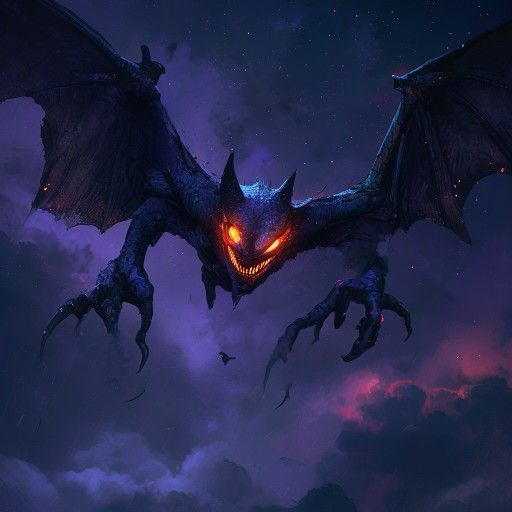
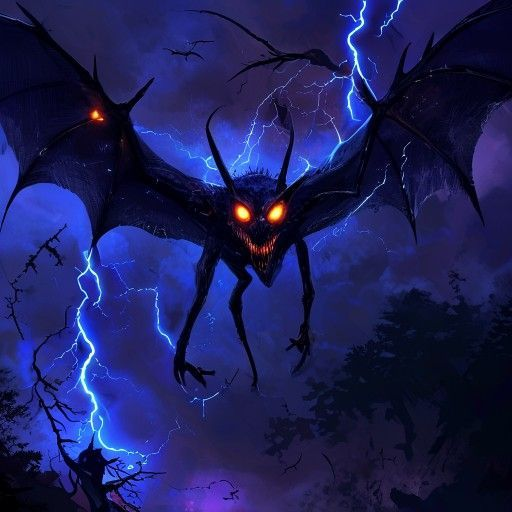
Evan's story updates: Tree Surpriser allies, Terradaxoar electric tail
- Tree Surpriser no longer dies; survives Belly Bonker's escape
- Tree Surprisers are now on Spider Scope's team, not enemies
- Forest of Tree Surprisers wakes up as allies against Giant Zombie
- Terradaxoar now has electric tail in text and monster info
- Belly eye color fixed to green (matching all images)
- Regenerated 11 images with improved prompts (5 eyes, electric tail, 3 mouths)
- Updated generate_images.py prompts for consistency

diff --git a/index.html b/index.html
@@ -575,7 +575,7 @@
       <div class="monster-card" onclick="showMonsterInfo('terradaxoar')">
         <img src="images/terradaxoar.png" alt="Terradaxoar" loading="lazy">
         <div class="name">Terradaxoar</div>
-        <div class="power">Five-eyed flyer!</div>
+        <div class="power">Five-eyed flyer with electric tail!</div>
       </div>
       <div class="monster-card" onclick="showMonsterInfo('healbeast')">
         <img src="images/slime-blob.png" alt="Slime Blob" loading="lazy">
@@ -633,7 +633,7 @@
     <img src="images/belly-bonker-attacks.png" alt="Belly Bonker attacks!" loading="lazy">
   </div>
   <div class="story-text">
-    One terrible night, the <span class="highlight">Belly Bonker</span> came crashing through the trees! Its belly eye burned <span class="highlight">angry red</span>. It wanted to <span class="big-text">DESTROY</span> the Spider Scope! It swung its massive claws. Trees shattered. The Spider Scope tried to run, but the Belly Bonker was too fast!
+    One terrible night, the <span class="highlight">Belly Bonker</span> came crashing through the trees! Its belly eye burned <span class="glow-green">bright green</span>. It wanted to <span class="big-text">DESTROY</span> the Spider Scope! It swung its massive claws. Trees shattered. The Spider Scope tried to run, but the Belly Bonker was too fast!
   </div>
 
   <div class="choices">
@@ -648,7 +648,7 @@
     <img src="images/tree-surpriser.png" alt="Tree Surpriser" loading="lazy">
   </div>
   <div class="story-text">
-    But one of the trees behind it started to <span class="glow-green">move</span>. Bark cracked. Eyes appeared. Then a mouth. Then ANOTHER mouth. Then <span class="highlight">THREE</span> mouths, all full of teeth sharp as swords. The <span class="highlight">Tree Surpriser</span>. And it was <span class="glow-green">STARVING</span>.
+    But one of the trees behind it started to <span class="glow-green">move</span>. Bark cracked. Eyes appeared. Then a mouth. Then ANOTHER mouth. Then <span class="highlight">THREE</span> mouths, all full of teeth sharp as swords. The <span class="highlight">Tree Surpriser</span>. But it wasn't looking at the Spider Scope. It was looking at the <span class="glow-green">Belly Bonker</span>.
   </div>
 
   <button class="next-btn" onclick="goToPage('page6a')">CHOMP! ➜</button>
@@ -676,7 +676,7 @@
   </div>
   <div class="story-text">
     <span class="big-text">SURPRISE!!!</span>
-    The Tree Surpriser opened ALL THREE of its horrible mouths and <span class="highlight">CHOMPED</span> down on the Belly Bonker! The whole Belly Bonker disappeared inside the tree! Swallowed whole! The forest went quiet. The Spider Scope thought it was safe...
+    The Tree Surpriser opened ALL THREE of its horrible mouths and <span class="highlight">CHOMPED</span> down on the Belly Bonker! The whole Belly Bonker disappeared inside the tree! Swallowed whole! The Tree Surpriser had <span class="glow-green">saved</span> the Spider Scope!
     <br><br>
     But then... the Tree Surpriser started to <span class="glow-green">shake</span>.
   </div>
@@ -720,21 +720,21 @@
   </div>
   <div class="story-text">
     <span class="big-text">BOOOOOOM!!!</span>
-    The Belly Bonker <span class="highlight">EXPLODED</span> out of the Tree Surpriser!!! The tree blew apart into a million pieces! Wood and green slime flew everywhere! The Belly Bonker ripped it apart from the INSIDE!
+    The Belly Bonker's belly eye glowed so bright it <span class="highlight">BLASTED</span> a hole right through the Tree Surpriser! The Belly Bonker burst out of the trunk and tumbled across the ground! Wood and green slime flew everywhere!
     <br>
-    The Tree Surpriser was <span class="highlight">DEAD.</span>
+    The Tree Surpriser was cracked open and oozing... but it was still <span class="glow-green">ALIVE</span>.
   </div>
 
   <button class="next-btn" onclick="goToPage('page9')">Is it over? ➜</button>
 </div>
 
-<!-- ==================== PAGE 9: DEAD TREE, BUT WAIT... ==================== -->
+<!-- ==================== PAGE 9: HURT TREE, BUT WAIT... ==================== -->
 <div class="page" id="page9">
   <div class="story-image-container">
-    <img src="images/dead-tree.png" alt="Dead Tree Surpriser" loading="lazy">
+    <img src="images/dead-tree.png" alt="Hurt Tree Surpriser" loading="lazy">
   </div>
   <div class="story-text">
-    The Tree Surpriser lay on the ground, split open and oozing. The Belly Bonker stood over it, belly eye glowing with victory. But then the Spider Scope looked through its scope and saw something that made its blood run cold...
+    The Tree Surpriser lay on the ground, cracked and oozing green sap. But its eyes were still open. It was <span class="glow-green">healing</span>. The Belly Bonker backed away, belly eye flickering. Then the Spider Scope looked through its scope and saw something amazing...
     <br>
     <span class="glow-green">The other trees were moving.</span>
   </div>
@@ -749,10 +749,10 @@
   </div>
   <div class="story-text">
     <span class="big-text">THEY WERE ALL TREE SURPRISERS.</span>
-    Every single tree had <span class="glow-green">glowing eyes</span> and <span class="highlight">mouths full of teeth</span>. HUNDREDS of them. ALL waking up. ALL hungry. The Spider Scope and Belly Bonker were completely <span class="highlight">SURROUNDED</span>.
+    Every single tree had <span class="glow-green">glowing eyes</span> and <span class="highlight">mouths full of teeth</span>. HUNDREDS of them. ALL waking up. But they weren't angry at the Spider Scope. They were <span class="glow-green">protecting it</span>. The whole forest turned to face the <span class="highlight">Belly Bonker</span>.
   </div>
 
-  <button class="next-btn" onclick="goToPage('page11')">Then the ground started shaking... ➜</button>
+  <button class="next-btn" onclick="goToPage('page11')">But then the ground started shaking... ➜</button>
 </div>
 
 <!-- ==================== PAGE 11: THE GIANT ZOMBIE ==================== -->
@@ -766,8 +766,8 @@
   </div>
 
   <div class="choices">
-    <button class="choice-btn" onclick="goToPage('page12a')">💀 The zombie fights the Tree Surprisers!</button>
-    <button class="choice-btn" onclick="goToPage('page12b')">🕷 Spider Scope, Belly Bonker, and the zombie team up!</button>
+    <button class="choice-btn" onclick="goToPage('page12a')">💀 The Tree Surprisers fight the zombie!</button>
+    <button class="choice-btn" onclick="goToPage('page12b')">🕷 Spider Scope and the Tree Surprisers team up!</button>
   </div>
 </div>
 
@@ -777,7 +777,7 @@
     <img src="images/zombie-vs-all.png" alt="EPIC BATTLE!" loading="lazy">
   </div>
   <div class="story-text">
-    The Giant Zombie swung its enormous fists and <span class="highlight">SMASHED</span> through the Tree Surprisers like they were toothpicks! Trees exploded! Green ooze sprayed everywhere! The Spider Scope and the Belly Bonker hid behind a rock and watched the zombie tear through the forest like a wrecking ball!
+    The Tree Surprisers charged at the Giant Zombie! Branches whipped and mouths chomped! The zombie swung its fists and <span class="highlight">SMASHED</span> through them, but more kept coming! The Spider Scope watched from behind a rock as the whole forest fought the zombie like an army of wooden soldiers!
   </div>
 
   <button class="next-btn" onclick="goToPage('page13')">Then what happened? ➜</button>
@@ -789,7 +789,7 @@
     <img src="images/zombie-smash.png" alt="TEAM UP!" loading="lazy">
   </div>
   <div class="story-text">
-    The Spider Scope, the Belly Bonker, and the Giant Zombie looked at each other. They used to be enemies. But now they had a bigger problem. The Belly Bonker's eye glowed. The Spider Scope aimed its scope. The zombie cracked its knuckles. They charged into battle <span class="highlight">TOGETHER</span> and smashed every last Tree Surpriser into sawdust!
+    The Spider Scope aimed its scope. The Tree Surprisers opened all their mouths. Even the Belly Bonker turned its belly eye toward the zombie. They all had a bigger problem now. The Spider Scope spotted the zombie's weak spot. The Tree Surprisers wrapped their roots around its legs. The Belly Bonker blasted it with its eye. They charged into battle <span class="highlight">TOGETHER</span> and brought the Giant Zombie crashing down!
   </div>
 
   <button class="next-btn" onclick="goToPage('page13')">After the battle... ➜</button>
@@ -801,7 +801,7 @@
     <img src="images/sunrise-forest.png" alt="The sun rises over the destroyed forest" loading="lazy">
   </div>
   <div class="story-text">
-    When it was finally over, every Tree Surpriser was gone. The forest was covered in green slime and splinters. The first light of sunrise crept through the broken trees. The Giant Zombie let out one last roar, then sank back into the ground. The Belly Bonker's eye dimmed to a soft glow. And the Spider Scope looked through its magical scope one last time... just to make sure nothing else was hiding.
+    When it was finally over, the Giant Zombie sank back into the ground. The forest was covered in green slime and rubble. The first light of sunrise crept through the trees. The Tree Surprisers settled back into the earth, their mouths closing, their eyes dimming, looking like ordinary trees again. The Belly Bonker's eye dimmed to a soft glow. And the Spider Scope looked through its magical scope one last time... just to make sure nothing else was hiding.
   </div>
 
   <button class="next-btn" onclick="goToPage('ending')">The end... ➜</button>
@@ -813,7 +813,7 @@
     <img src="images/spider-scope.png" alt="Spider Scope watches over the forest" loading="lazy">
   </div>
   <div class="story-text">
-    The forest was quiet again. The <span class="glow-green">Spider Scope</span> crawled to the top of the tallest hill and kept watch. The <span class="glow-purple">Rock Person</span> settled back into the ground, invisible as always. And somewhere deep below, the <span class="highlight">Belly Bonker</span> and the <span class="highlight">Giant Zombie</span> slept, waiting for the next time the forest needed them.
+    The forest was quiet again. The <span class="glow-green">Spider Scope</span> crawled to the top of the tallest hill and kept watch, surrounded by the <span class="highlight">Tree Surprisers</span> standing guard like silent wooden soldiers. The <span class="glow-purple">Rock Person</span> settled back into the ground, invisible as always. And somewhere deep below, the <span class="highlight">Belly Bonker</span> slept with one eye open, waiting for the next time the forest needed it.
     <br><br>
     <span class="big-text">THE END</span>
     <span class="glow-green">A story by Evan</span>
@@ -1068,8 +1068,8 @@
       power: 'Belly button eye sees everything... except Rock Person!',
       weakness: 'Gets eaten by the Tree Surpriser... then EXPLODES out!' },
     tree: { img: 'images/tree-surpriser.png', name: 'Tree Surpriser',
-      power: 'Looks like a tree. Eats people with no one expecting!',
-      weakness: 'The Belly Bonker grows too big inside and EXPLODES it!' },
+      power: 'Looks like a tree. Protects the forest and eats enemies whole!',
+      weakness: 'The Belly Bonker can blast its way out with its belly eye!' },
     rock: { img: 'images/rock-person.png', name: 'Rock Person',
       power: 'Invisible to everyone! Looks just like a rock!',
       weakness: 'Only the Spider Scope can see it!' },
@@ -1077,7 +1077,7 @@
       power: 'No body, no head. JUST LEGS. Stomps everything flat!',
       weakness: 'Has no eyes or brain... runs into things and falls over!' },
     terradaxoar: { img: 'images/terradaxoar.png', name: 'Terradaxoar',
-      power: 'Flies through the sky with FIVE eyes that see in every direction!',
+      power: 'Flies with FIVE eyes that see everything, and an ELECTRIC TAIL that zaps!',
       weakness: 'Too many eyes means too much to look at... gets confused by bright lights!' },
     healbeast: { img: 'images/slime-blob.png', name: 'Slime Blob',
       power: 'Smash it to pieces and it oozes back together! Unkillable!',

diff --git a/generate_images.py b/generate_images.py
@@ -15,7 +15,7 @@ STYLE = "dark fantasy digital art, spooky childrens book illustration, dark atmo
 # === MONSTER PORTRAITS ===
 PORTRAITS = {
     'giant-legs.png': f"a terrifying creature that is ONLY giant muscular purple legs with NO body NO head NO torso, just four enormous legs stomping through a dark haunted forest at night, dust clouds from stomping, {STYLE}",
-    'terradaxoar.png': f"a dark flying monster called Terradaxoar soaring through a night sky, it has FIVE glowing orange eyes in a row across its wide flat head, dark blue-grey bat-like wings spread wide, sharp talons, menacing, {STYLE}",
+    'terradaxoar.png': f"a dark flying monster called Terradaxoar soaring through a night sky, it has exactly FIVE glowing orange eyes arranged in a horizontal row across its wide flat head like a row of five headlights, dark blue-grey bat-like wings spread wide, sharp talons, and a long whip-like tail crackling with blue-white electricity and lightning bolts, menacing, {STYLE}",
     'slime-blob.png': f"a round spiky green slime monster with an evil grin and glowing red eyes, covered in sharp spikes, pieces of it floating nearby reconnecting with green energy lines showing it can regenerate and heal, dark forest background, {STYLE}",
 }
 
@@ -25,23 +25,23 @@ BATTLES = {
     'battle-spider-tree.png': f"a spider creature with a glowing scope/telescope firing a beam of light at a monstrous evil tree creature that is burning, dark forest battle, {STYLE}",
     'battle-spider-rock.png': f"a spider creature with a glowing purple telescope scope detecting an invisible rock creature that is partially visible as a shimmer outline, dark cave scene, {STYLE}",
     'battle-spider-giantlegs.png': f"a spider creature with a scope being stomped flat by enormous disembodied giant legs, dust clouds and destruction, dark forest, {STYLE}",
-    'battle-spider-terradaxoar.png': f"a flying monster with five glowing eyes swooping down to attack a spider creature with a telescope, night sky battle, {STYLE}",
+    'battle-spider-terradaxoar.png': f"a dark flying monster with exactly FIVE glowing orange eyes in a row across its flat head and an electric lightning tail swooping down to attack a spider creature with a telescope, night sky battle, {STYLE}",
     'battle-spider-healbeast.png': f"a round spiky green slime blob reforming itself after being blasted to pieces by a spider with a scope, pieces reconnecting with green energy, dark forest, {STYLE}",
-    'battle-belly-tree.png': f"a monster with a glowing belly button eye EXPLODING out of a monstrous tree creature from the inside, wood splinters and green slime flying everywhere, massive explosion, dark forest, {STYLE}",
+    'battle-belly-tree.png': f"a monster with a glowing belly button eye EXPLODING out of a monstrous tree creature that has THREE horrible mouths stacked vertically from the inside, wood splinters and green slime flying everywhere, massive explosion, dark forest, {STYLE}",
     'battle-belly-rock.png': f"an invisible rock creature pushing a confused belly-eye monster off a dark cliff edge, the belly monster falling, dark atmospheric scene, {STYLE}",
     'battle-belly-giantlegs.png': f"a small round monster with a belly button eye rolling between enormous disembodied legs and attacking their weak spot with a glowing beam, the giant legs wobbling and falling, {STYLE}",
-    'battle-belly-terradaxoar.png': f"a five-eyed flying monster dive-bombing and carrying away a round monster with a belly button eye, dramatic night sky action scene, {STYLE}",
+    'battle-belly-terradaxoar.png': f"a dark flying monster with exactly FIVE glowing orange eyes in a horizontal row across its flat head and an electric lightning tail dive-bombing and carrying away a round furry monster with a glowing green belly button eye, dramatic night sky action scene, {STYLE}",
     'battle-belly-healbeast.png': f"a monster with a glowing hot belly button eye burning green slime pieces before they can reconnect, green pieces disintegrating in orange fire, dark scene, {STYLE}",
-    'battle-tree-rock.png': f"a monstrous evil tree creature swallowing an invisible shimmering rock creature whole, the tree mouth open wide chomping down, dark forest, {STYLE}",
-    'battle-tree-giantlegs.png': f"enormous disembodied giant legs stomping right through a monstrous evil tree creature, smashing it to pieces without even noticing, wood flying everywhere, {STYLE}",
-    'battle-tree-terradaxoar.png': f"a monstrous tree creature grabbing a five-eyed flying monster with its branches and pulling it down, the flying creature struggling, dark forest, {STYLE}",
-    'battle-tree-healbeast.png': f"tree roots shooting from the ground wrapping around a round green slime blob monster and dragging it underground, green energy being absorbed by the roots, dark scene, {STYLE}",
+    'battle-tree-rock.png': f"a monstrous evil tree creature with THREE mouths stacked vertically swallowing an invisible shimmering rock creature whole, the biggest mouth open wide chomping down, dark forest, {STYLE}",
+    'battle-tree-giantlegs.png': f"enormous disembodied giant legs stomping right through a monstrous evil tree creature with THREE mouths stacked vertically, smashing it to pieces without even noticing, wood flying everywhere, {STYLE}",
+    'battle-tree-terradaxoar.png': f"a monstrous tree creature with THREE mouths grabbing a dark flying monster that has exactly FIVE glowing orange eyes in a row and an electric lightning tail with its branches and pulling it down, the flying creature struggling, dark forest, {STYLE}",
+    'battle-tree-healbeast.png': f"a monstrous tree creature with THREE mouths stacked vertically shooting roots from the ground wrapping around a round green slime blob monster and dragging it underground, green energy being absorbed by the roots, dark scene, {STYLE}",
     'battle-rock-giantlegs.png': f"enormous disembodied giant legs tripping over an invisible rock creature and crashing into a dark canyon, the legs falling dramatically, dust everywhere, {STYLE}",
-    'battle-rock-terradaxoar.png': f"a five-eyed flying monster grabbing an invisible partially-visible rock creature with its talons, one special eye glowing brighter than the others to see the invisible creature, night sky, {STYLE}",
+    'battle-rock-terradaxoar.png': f"a dark flying monster with exactly FIVE glowing orange eyes in a horizontal row across its flat head and an electric lightning tail grabbing an invisible partially-visible rock creature with its talons, one special eye glowing brighter than the others to see the invisible creature, night sky, {STYLE}",
     'battle-rock-healbeast.png': f"an invisible shimmering rock creature pushing a round green slime blob monster into a glowing orange volcano, the slime monster falling into lava, dramatic scene, {STYLE}",
-    'battle-giantlegs-terradaxoar.png': f"a five-eyed flying monster attacking enormous disembodied legs from above, diving and striking repeatedly while the legs kick uselessly at the sky, dramatic battle, {STYLE}",
+    'battle-giantlegs-terradaxoar.png': f"a dark flying monster with exactly FIVE glowing orange eyes in a row across its flat head and an electric lightning tail attacking enormous disembodied legs from above, diving and striking repeatedly while the legs kick uselessly at the sky, dramatic battle, {STYLE}",
     'battle-giantlegs-healbeast.png': f"enormous disembodied giant legs repeatedly stomping a round green slime blob flat, the slime trying to reform but getting stomped again and again, dark dramatic scene, {STYLE}",
-    'battle-terradaxoar-healbeast.png': f"a five-eyed flying monster carrying green slime pieces in different directions over five different oceans, dropping the pieces far apart so they cannot heal back together, epic aerial scene, {STYLE}",
+    'battle-terradaxoar-healbeast.png': f"a dark flying monster with exactly FIVE glowing orange eyes in a row across its flat head and an electric lightning tail carrying green slime pieces in different directions over five different oceans, dropping the pieces far apart so they cannot heal back together, epic aerial scene, {STYLE}",
 }
 
 def download_image(name, prompt, retries=2):
